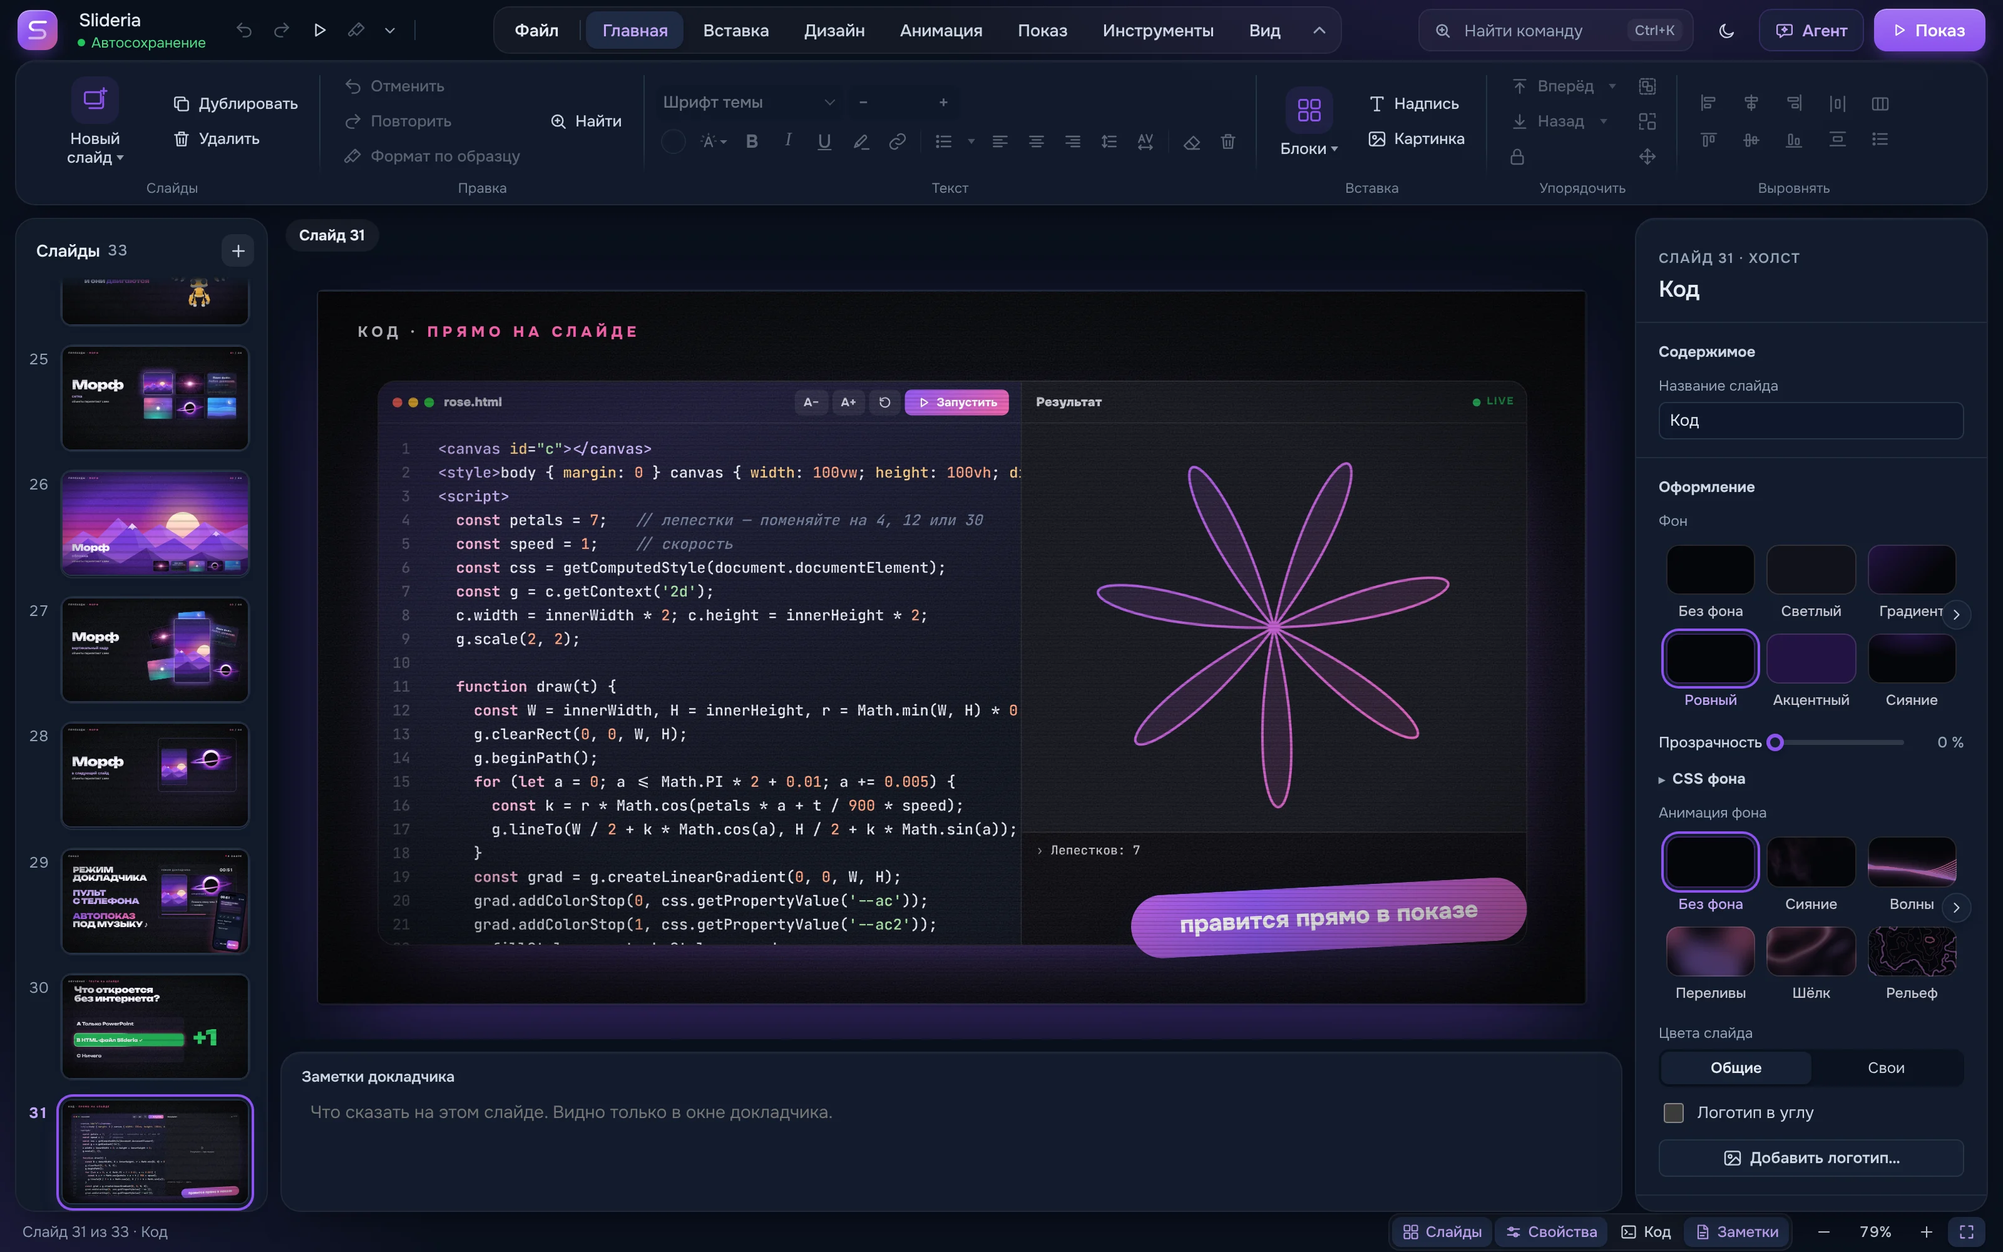
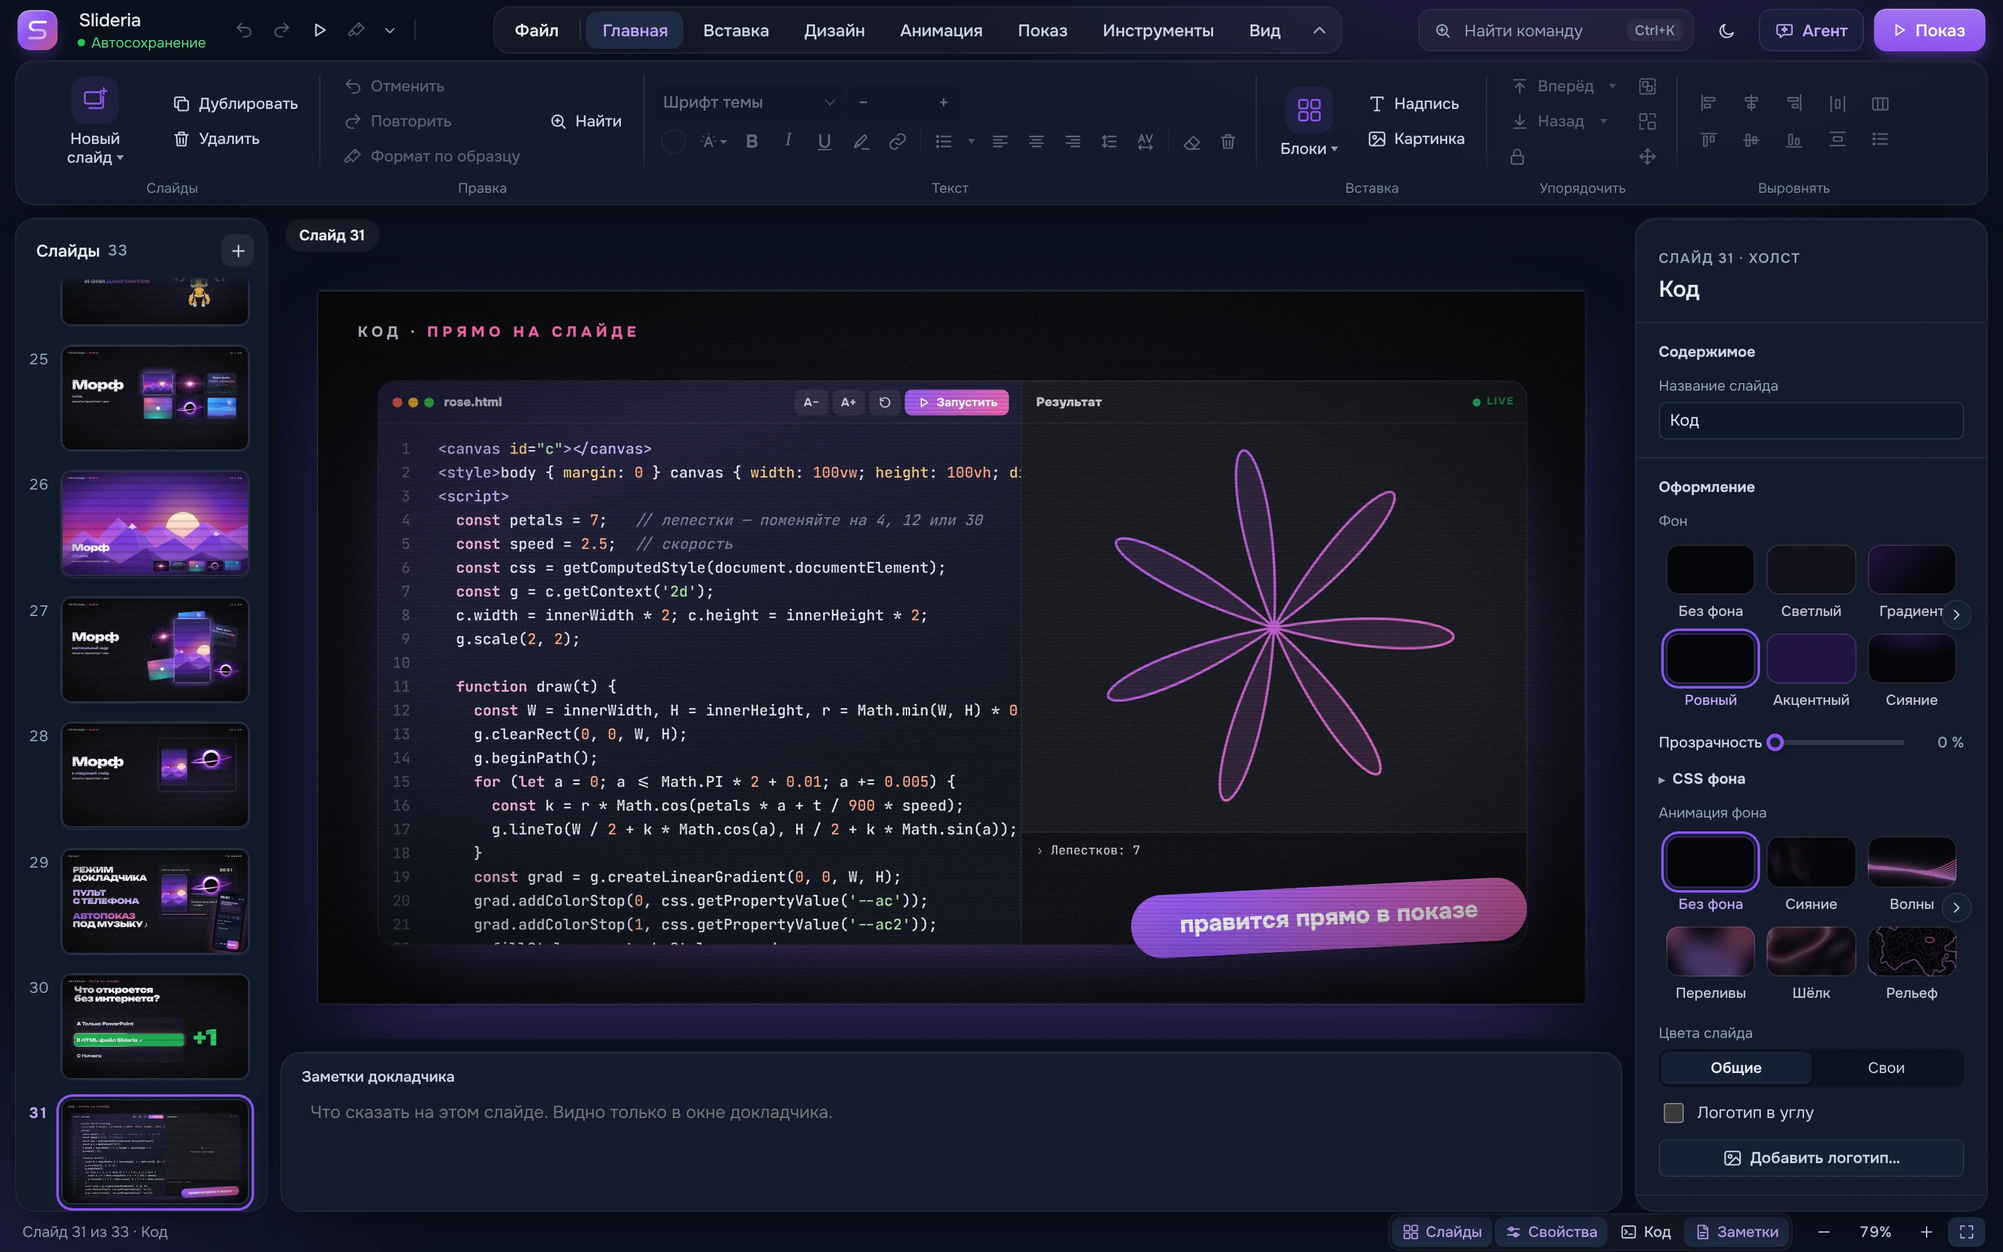
Запись видео без рывков; промо — без затянутых пауз
- Видео в записи: перемотка на 2 мс позже времени кадра. Кадр записи приходился
  ровно на начало кадра ролика, метка в файле округлена вверх — браузер показывал
  предыдущий кадр: каждый третий кадр повторялся, следующий перескакивал
  (во вступлении промо — 17 повторов за 3,4 с, теперь 0)
- Рамки (песочница, живые HTML-вставки) в записи идут по её часам: время кадра —
  сообщением, кадр снимается после ответа рамки. Раньше роза в «Коде» жила по
  настоящим часам и в ролике дёргалась и крутилась в разы быстрее
- e2e: ролик 30 к/с — кадр в кадр без повторов, песочница — ровно секунда
  за 30 кадров (без правок обе проверки падают)
- Промо: знак после рождения наезжает, в луче пылинки; «ЖИВУТ» толкается и
  светится на бочку; «Место, где можно» разгоняется в дроп; роза в «Коде»
  быстрее (и на снимке студии в концовке); на финальном знаке второй блик

Claude-Session: https://claude.ai/code/session_01GftsZaKVp4igw2ytT8Njke

Changed region(s): [[0.5312, 0.372, 0.7188, 0.651]]

diff --git a/src/engine/frame-bridge.ts b/src/engine/frame-bridge.ts
@@ -8,17 +8,26 @@
 /**
  * Пауза автопоказа (сообщение slideriaFreeze): кадры (requestAnimationFrame) и performance.now() документа
  * стоят и потом идут дальше без скачка, CSS-анимации и ролики замирают — вставка продолжает с того же кадра.
+ * Запись видео (сообщение slideriaClock, engine/render-clock.ts): с первого такого сообщения время документа —
+ * время кадра записи, кадры документа и CSS-анимации идут только по этим сообщениям; ответ slideriaClockDone —
+ * кадр нарисован. Иначе вставка жила бы по настоящим часам: пока считается кадр ролика, она убегает вперёд рывком.
  * Подменяется до скриптов документа: скрипт встаёт сразу после <head>
  */
 const FREEZE = `var W=window,R=W.requestAnimationFrame.bind(W),C=W.cancelAnimationFrame.bind(W),P=performance.now.bind(performance),fz=0,at=0,lost=0,q=[],ids=0,map={},an=[],md=[];`
-  + `performance.now=function(){return(fz?at:P())-lost};`
-  + `function go(id,cb){map[id]=R(function(t){delete map[id];if(fz){q.push([id,cb]);return}cb(t-lost)})}`
-  + `W.requestAnimationFrame=function(cb){var id=++ids;if(fz)q.push([id,cb]);else go(id,cb);return id};`
-  + `W.cancelAnimationFrame=function(id){if(map[id]){C(map[id]);delete map[id]}for(var i=q.length-1;i>=0;i--)if(q[i][0]===id)q.splice(i,1)};`
+  + `var ck=0,cv=0,c0=0,cd0=0,cq=[],cb=new WeakMap();`
+  + `performance.now=function(){return ck?cd0+cv-c0:(fz?at:P())-lost};`
+  + `function go(id,cb){map[id]=R(function(t){delete map[id];if(ck){cq.push([id,cb]);return}if(fz){q.push([id,cb]);return}cb(t-lost)})}`
+  + `W.requestAnimationFrame=function(cb){var id=++ids;if(ck)cq.push([id,cb]);else if(fz)q.push([id,cb]);else go(id,cb);return id};`
+  + `W.cancelAnimationFrame=function(id){if(map[id]){C(map[id]);delete map[id]}for(var i=q.length-1;i>=0;i--)if(q[i][0]===id)q.splice(i,1);for(i=cq.length-1;i>=0;i--)if(cq[i][0]===id)cq.splice(i,1)};`
+  // Кадр записи: кадры документа — в его время, CSS-анимации — на паузе, время каждой — от её рождения
+  + `function tick(v,n){if(!ck){cd0=performance.now();c0=v;ck=1}cv=v;var t=performance.now(),w=cq;cq=[];`
+  + `w.forEach(function(x){try{x[1](t)}catch(e){console.error(e)}});`
+  + `(document.getAnimations?document.getAnimations():[]).forEach(function(a){if(!cb.has(a)){cb.set(a,t-(+a.currentTime||0));a.pause()}a.currentTime=t-cb.get(a)});`
+  + `R(function(){parent.postMessage({slideriaClockDone:n},'*')})}`
   + `function frz(on){if(!on===!fz)return;if(on){fz=1;at=P();an=document.getAnimations?document.getAnimations().filter(function(a){return a.playState==='running'}):[];an.forEach(function(a){a.pause()});`
   + `md=[].filter.call(document.querySelectorAll('video,audio'),function(m){return!m.paused});md.forEach(function(m){m.pause()})}`
   + `else{lost+=P()-at;fz=0;an.forEach(function(a){if(a.playState==='paused')a.play()});md.forEach(function(m){var p=m.play();if(p&&p.catch)p.catch(function(){})});var w=q;q=[];w.forEach(function(x){go(x[0],x[1])})}}`
-  + `addEventListener('message',function(e){var d=e.data;if(e.source===parent&&d&&typeof d.slideriaFreeze==='boolean')frz(d.slideriaFreeze)});`;
+  + `addEventListener('message',function(e){var d=e.data;if(e.source!==parent||!d)return;if(typeof d.slideriaFreeze==='boolean')frz(d.slideriaFreeze);if(typeof d.slideriaClock==='number')tick(d.slideriaClock,d.n)});`;
 
 /** Скрипт внутри документа: принимает сообщения только от страницы, в которую встроен */
 const SCRIPT = `<script>(function(){${FREEZE}addEventListener('message',function(e){var d=e.data;if(e.source!==parent||!d||typeof d.slideriaPtr!=='string')return;var t=d.slideriaPtr,x=+d.x||0,y=+d.y||0,b=+d.b||0;`
@@ -29,6 +38,8 @@ const SCRIPT = `<script>(function(){${FREEZE}addEventListener('message',function
   + `else if(t==='down'){f(el,'pointerdown',1,Object.assign({button:0,buttons:1},o));f(el,'mousedown',0,Object.assign({button:0,buttons:1},o))}`
   + `else if(t==='up'){f(el,'pointerup',1,Object.assign({button:0,buttons:0},o));f(el,'mouseup',0,Object.assign({button:0,buttons:0},o));f(el,'click',0,Object.assign({button:0,buttons:0},o))}`
   + `});`
+  // Приёмник на месте (slideriaBridge): запись видео шлёт время кадра только таким рамкам
+  + `try{parent.postMessage({slideriaBridge:1},'*')}catch(_){}`
   // Пульс: документ рисуется (кадры идут) — страница видит, что вставка не застыла. На настоящих кадрах (R):
   // пауза автопоказа — не зависание, перезагружать вставку не за что
   + `var n=0;function k(){if(++n%20===0)try{parent.postMessage({slideriaAlive:1},'*')}catch(_){}R(k)}R(k)})()</script>`;

diff --git a/src/engine/render-clock.ts b/src/engine/render-clock.ts
@@ -80,6 +80,9 @@ export function renderReady(s: RenderShow): void {
   api.ready = true;
 }
 
+/** Перемотка видео в кадре записи — на столько секунд позже его времени (меньше кадра даже при 240 к/с) */
+const SEEK_AHEAD = 0.002;
+
 type Timer = { id: number; due: number; fn: (...a: unknown[]) => void; args: unknown[]; every: number; level: number };
 
 const api = {
@@ -95,6 +98,7 @@ function install(): void {
     now: performance.now.bind(performance),
     dateNow: Date.now,
     setTimeout: window.setTimeout.bind(window),
+    clearTimeout: window.clearTimeout.bind(window),
     raf: window.requestAnimationFrame.bind(window),
   };
   const perf0 = native.now();
@@ -354,7 +358,10 @@ function install(): void {
         fire(el, 'timeupdate');
       }
       if (el instanceof HTMLVideoElement && el.readyState >= 1 && shown(el)) {
-        const want = posOf(el, s);
+        // Чуть позже нужной секунды: кадр записи часто приходится ровно на начало кадра ролика, а метка кадра в файле
+        // округлена вверх — браузер показал бы предыдущий кадр, и ролик шёл бы рывками (повтор, потом пропуск)
+        const d = el.duration;
+        const want = Math.min(posOf(el, s) + SEEK_AHEAD, Number.isFinite(d) && d > 0 ? d : Infinity);
         if (Math.abs(Number(cur.get!.call(el)) - want) > 0.004) {
           cur.set!.call(el, want);
           wait.push(seeked(el));
@@ -371,6 +378,43 @@ function install(): void {
       native.raf(() => native.raf(() => native.setTimeout(r, 30)));
     }, { once: true });
   }), 3000);
+
+  /**
+   * Вставки в рамках (песочница, живые HTML-слайды): у документа рамки свои часы — время кадра ему приходит
+   * сообщением (engine/frame-bridge.ts), кадр снимается, когда рамка ответила, что нарисовала его.
+   * Время шлётся только рамкам, приславшим slideriaBridge (приёмник загрузился): чужие документы и рамки, которые
+   * ещё грузятся, кадр не задерживают. Не ответила — ждём, пока приёмник объявится снова (рамку перезагрузили)
+   */
+  let clockSeq = 0;
+  const bridged = new WeakSet<object>();
+  addEventListener('message', (e) => {
+    const d = e.data as { slideriaBridge?: unknown } | null;
+    if (e.source && d?.slideriaBridge === 1) bridged.add(e.source);
+  });
+  function stepFrames(): Promise<unknown>[] {
+    const wait: Promise<unknown>[] = [];
+    for (const f of document.querySelectorAll('iframe')) {
+      const win = f.contentWindow;
+      if (!win || !bridged.has(win) || !shown(f)) continue;
+      const n = ++clockSeq;
+      wait.push(new Promise<void>((r) => {
+        let late = 0;
+        const done = (ok: boolean) => {
+          native.clearTimeout(late);
+          removeEventListener('message', on);
+          if (!ok) bridged.delete(win);
+          r();
+        };
+        const on = (e: MessageEvent) => {
+          if (e.source === win && (e.data as { slideriaClockDone?: unknown } | null)?.slideriaClockDone === n) done(true);
+        };
+        addEventListener('message', on);
+        late = native.setTimeout(() => done(false), 1000);
+        win.postMessage({ slideriaClock: vnow, n }, '*');
+      }));
+    }
+    return wait;
+  }
 
   /** Элемент на странице нарисован: не display:none (закрытые слайды — display:none, base.css) */
   const shown = (el: Element) => el.getClientRects().length > 0;
@@ -428,7 +472,7 @@ function install(): void {
       adopt();
       stepAnimations();
       stepSvg();
-      const seeks = stepMedia();
+      const seeks = [...stepMedia(), ...stepFrames()];
       // timeupdate и конец роликов — событиями в это же мгновение
       await runTimers(T);
       await ready(seeks);

diff --git a/tests/e2e/video.spec.ts b/tests/e2e/video.spec.ts
@@ -100,6 +100,67 @@ test('покадровая запись: время кадра — свои ча
   expect(errors).toEqual([]);
 });
 
+test('покадровая запись: ролик — кадр в кадр без повторов, песочница — по часам записи', async ({ page }) => {
+  // Ролик 30 к/с (кадр — 1/30 с) и песочница, которая пишет своё время в data-t на каждом своём кадре. Они — на втором
+  // слайде: он открывается ровно через секунду записи, и ролик начинается точно в кадр записи, как в настоящем показе
+  const name = 'zz-video-frames';
+  const dir = path.join(DECKS, name);
+  fs.mkdirSync(path.join(dir, 'assets'), { recursive: true });
+  fs.copyFileSync('tests/fixtures/frames30.mp4', path.join(dir, 'assets', 'frames30.mp4'));
+  fs.writeFileSync(deckFile(name), `title: Кадры
+autoplay: {after: 1}
+progress: false
+slides:
+  - template: canvas
+    free: []
+  - template: canvas
+    after: 5
+    free:
+      - {type: video, src: ./assets/frames30.mp4, autoplay: true, muted: true, loop: false, controls: false, place: {x: 0, y: 0, w: 640, h: 360}}
+      - type: sandbox
+        place: {x: 640, y: 0, w: 640, h: 360}
+        code: |
+          <body><script>
+          var t0 = performance.now();
+          function f() { document.body.dataset.t = String(Math.round(performance.now() - t0)); requestAnimationFrame(f); }
+          requestAnimationFrame(f);
+          </script></body>
+`);
+  try {
+    const errors = watchErrors(page);
+    type W = { slideriaRender: { ready: boolean; start(): Promise<unknown>; frame(k: number, fps: number): Promise<unknown> }; __mt: number | null };
+    await page.goto(`/?deck=${name}&render=video`);
+    await page.waitForFunction(() => (window as unknown as Partial<W>).slideriaRender?.ready);
+    await page.evaluate(() => (window as unknown as W).slideriaRender.start());
+    const frame = (k: number) => page.evaluate((k) => (window as unknown as W).slideriaRender.frame(k, 30), k);
+    // Кадр ролика, который виден в кадре записи k: при перемотке ровно на начало кадра браузер показывал предыдущий —
+    // ролик шёл «повтор, пропуск»
+    // До второго слайда (после секунды и перехода), ещё пара кадров — ролик пошёл
+    let k0 = 1;
+    while (((await frame(k0)) as { slide: number }).slide < 2 && k0 < 120) k0++;
+    for (let k = k0 + 1; k <= k0 + 2; k++) await frame(k);
+    const shown: number[] = [];
+    for (let k = k0 + 3; k <= k0 + 14; k++) {
+      await page.evaluate(() => {
+        const w = window as unknown as W;
+        w.__mt = null;
+        document.querySelector<HTMLVideoElement>('.slide.on video')?.requestVideoFrameCallback((_, m) => { w.__mt = m.mediaTime; });
+      });
+      await frame(k);
+      shown.push(Math.round(Number(await page.evaluate(() => (window as unknown as W).__mt)) * 30));
+    }
+    expect(shown.slice(1).map((n, i) => n - shown[i])).toEqual(Array(11).fill(1));
+    // Песочница: за 30 кадров у неё прошла ровно секунда, сколько бы ни считались кадры
+    const t = async () => Number(await page.frameLocator('.slide.on iframe').first().locator('body').getAttribute('data-t'));
+    const a = await t();
+    for (let k = k0 + 15; k <= k0 + 44; k++) await frame(k);
+    expect((await t()) - a).toBeCloseTo(1000, -1);
+    expect(errors).toEqual([]);
+  } finally {
+    fs.rmSync(dir, { recursive: true, force: true });
+  }
+});
+
 test('«Файл → Экспорт → Видео»: размер, кадры, время слайдов, музыка, оценка размера; в браузере кнопка выключена', async ({ page }) => {
   const errors = watchErrors(page);
   await page.goto(`/?deck=${NAME}&studio`);
